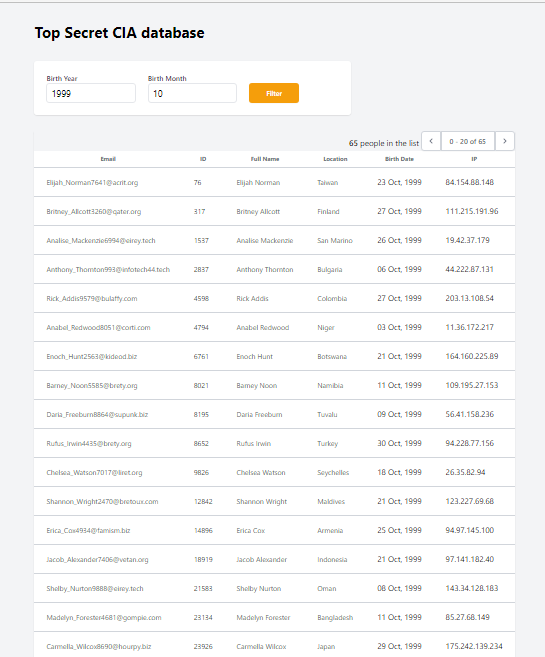
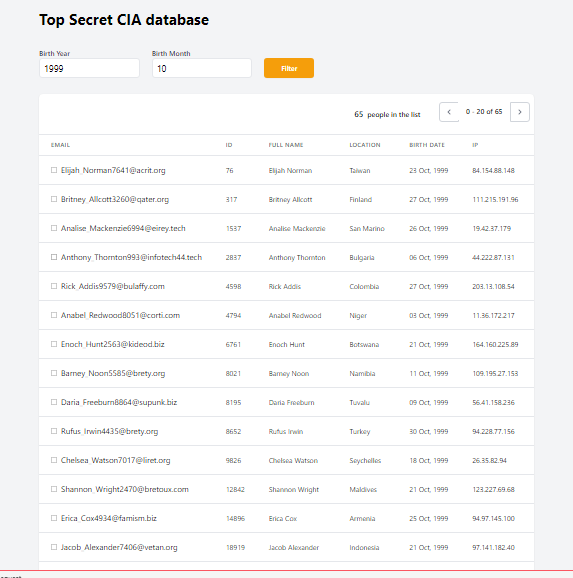
little styling

diff --git a/resources/views/users.blade.php b/resources/views/users.blade.php
@@ -11,15 +11,7 @@
 
         <!-- Styles -->
         <link href="https://unpkg.com/tailwindcss@^2/dist/tailwind.min.css" rel="stylesheet">
-        {{-- <style>
-            /*! normalize.css v8.0.1 | MIT License | github.com/necolas/normalize.css */html{line-height:1.15;-webkit-text-size-adjust:100%}body{margin:0}a{background-color:transparent}[hidden]{display:none}html{font-family:system-ui,-apple-system,BlinkMacSystemFont,Segoe UI,Roboto,Helvetica Neue,Arial,Noto Sans,sans-serif,Apple Color Emoji,Segoe UI Emoji,Segoe UI Symbol,Noto Color Emoji;line-height:1.5}*,:after,:before{box-sizing:border-box;border:0 solid #e2e8f0}a{color:inherit;text-decoration:inherit}svg,video{display:block;vertical-align:middle}video{max-width:100%;height:auto}.bg-white{--bg-opacity:1;background-color:#fff;background-color:rgba(255,255,255,var(--bg-opacity))}.bg-gray-100{--bg-opacity:1;background-color:#f7fafc;background-color:rgba(247,250,252,var(--bg-opacity))}.border-gray-200{--border-opacity:1;border-color:#edf2f7;border-color:rgba(237,242,247,var(--border-opacity))}.border-t{border-top-width:1px}.flex{display:flex}.grid{display:grid}.hidden{display:none}.items-center{align-items:center}.justify-center{justify-content:center}.font-semibold{font-weight:600}.h-5{height:1.25rem}.h-8{height:2rem}.h-16{height:4rem}.text-sm{font-size:.875rem}.text-lg{font-size:1.125rem}.leading-7{line-height:1.75rem}.mx-auto{margin-left:auto;margin-right:auto}.ml-1{margin-left:.25rem}.mt-2{margin-top:.5rem}.mr-2{margin-right:.5rem}.ml-2{margin-left:.5rem}.mt-4{margin-top:1rem}.ml-4{margin-left:1rem}.mt-8{margin-top:2rem}.ml-12{margin-left:3rem}.-mt-px{margin-top:-1px}.max-w-6xl{max-width:72rem}.min-h-screen{min-height:100vh}.overflow-hidden{overflow:hidden}.p-6{padding:1.5rem}.py-4{padding-top:1rem;padding-bottom:1rem}.px-6{padding-left:1.5rem;padding-right:1.5rem}.pt-8{padding-top:2rem}.fixed{position:fixed}.relative{position:relative}.top-0{top:0}.right-0{right:0}.shadow{box-shadow:0 1px 3px 0 rgba(0,0,0,.1),0 1px 2px 0 rgba(0,0,0,.06)}.text-center{text-align:center}.text-gray-200{--text-opacity:1;color:#edf2f7;color:rgba(237,242,247,var(--text-opacity))}.text-gray-300{--text-opacity:1;color:#e2e8f0;color:rgba(226,232,240,var(--text-opacity))}.text-gray-400{--text-opacity:1;color:#cbd5e0;color:rgba(203,213,224,var(--text-opacity))}.text-gray-500{--text-opacity:1;color:#a0aec0;color:rgba(160,174,192,var(--text-opacity))}.text-gray-600{--text-opacity:1;color:#718096;color:rgba(113,128,150,var(--text-opacity))}.text-gray-700{--text-opacity:1;color:#4a5568;color:rgba(74,85,104,var(--text-opacity))}.text-gray-900{--text-opacity:1;color:#1a202c;color:rgba(26,32,44,var(--text-opacity))}.underline{text-decoration:underline}.antialiased{-webkit-font-smoothing:antialiased;-moz-osx-font-smoothing:grayscale}.w-5{width:1.25rem}.w-8{width:2rem}.w-auto{width:auto}.grid-cols-1{grid-template-columns:repeat(1,minmax(0,1fr))}@media (min-width:640px){.sm\:rounded-lg{border-radius:.5rem}.sm\:block{display:block}.sm\:items-center{align-items:center}.sm\:justify-start{justify-content:flex-start}.sm\:justify-between{justify-content:space-between}.sm\:h-20{height:5rem}.sm\:ml-0{margin-left:0}.sm\:px-6{padding-left:1.5rem;padding-right:1.5rem}.sm\:pt-0{padding-top:0}.sm\:text-left{text-align:left}.sm\:text-right{text-align:right}}@media (min-width:768px){.md\:border-t-0{border-top-width:0}.md\:border-l{border-left-width:1px}.md\:grid-cols-2{grid-template-columns:repeat(2,minmax(0,1fr))}}@media (min-width:1024px){.lg\:px-8{padding-left:2rem;padding-right:2rem}}@media (prefers-color-scheme:dark){.dark\:bg-gray-800{--bg-opacity:1;background-color:#2d3748;background-color:rgba(45,55,72,var(--bg-opacity))}.dark\:bg-gray-900{--bg-opacity:1;background-color:#1a202c;background-color:rgba(26,32,44,var(--bg-opacity))}.dark\:border-gray-700{--border-opacity:1;border-color:#4a5568;border-color:rgba(74,85,104,var(--border-opacity))}.dark\:text-white{--text-opacity:1;color:#fff;color:rgba(255,255,255,var(--text-opacity))}.dark\:text-gray-400{--text-opacity:1;color:#cbd5e0;color:rgba(203,213,224,var(--text-opacity))}.dark\:text-gray-500{--tw-text-opacity:1;color:#6b7280;color:rgba(107,114,128,var(--tw-text-opacity))}}
-        </style> --}}
 
-        {{-- <style>
-            body {
-                font-family: 'Nunito', sans-serif;
-            }
-        </style> --}}
     </head>
     <body class="bg-gray-100 ">
 
@@ -33,8 +25,8 @@
                         <div class="md:grid md:grid-cols-3 md:gap-6">
                             <div class="mt-5 md:mt-0 md:col-span-2">
                                 <form action="">
-                                    <div class="shadow overflow-hidden sm:rounded-md">
-                                        <div class="px-4 py-5 bg-white sm:p-6">
+                                    <div class="overflow-hidden pb-2">
+
                                             <div class="grid grid-cols-6 gap-6">
                                                 <div class="col-span-6 sm:col-span-3 lg:col-span-2">
                                                     <label for="first_name" class="block text-sm font-medium text-gray-700">Birth Year</label>
@@ -52,7 +44,7 @@
                                                     </button>
                                                 </div>
                                             </div>
-                                        </div>
+
                                     </div>
                                 </form>
                             </div>
@@ -67,25 +59,25 @@
                                 @if ( count($users) > 0 )
                                     {{ $users->links() }}
 
-                                    <table class="min-w-full divide-y divide-gray-200 my-4">
+                                    <table class="min-w-full divide-y divide-gray-200 my-6 border-t border-b">
                                         <thead class="bg-white">
                                             <tr>
-                                                <th scope="col" class="px-6 py-3 text-left text-xs font-medium text-black-500 uppercase tracking-wider">
+                                                <th scope="col" class="px-6 py-3 text-left text-xs font-medium text-gray-500 uppercase tracking-wider">
                                                     Email
                                                 </th>
-                                                <th scope="col" class="px-6 py-3 text-left text-xs font-medium text-black-500 uppercase tracking-wider">
+                                                <th scope="col" class="px-6 py-3 text-left text-xs font-medium text-gray-500 uppercase tracking-wider">
                                                     ID
                                                 </th>
-                                                <th scope="col" class="px-6 py-3 text-left text-xs font-medium text-black-500 uppercase tracking-wider">
+                                                <th scope="col" class="px-6 py-3 text-left text-xs font-medium text-gray-500 uppercase tracking-wider">
                                                     Full Name
                                                 </th>
-                                                <th scope="col" class="px-6 py-3 text-left text-xs font-medium text-black-500 uppercase tracking-wider">
+                                                <th scope="col" class="px-6 py-3 text-left text-xs font-medium text-gray-500 uppercase tracking-wider">
                                                     Location
                                                 </th>
-                                                <th scope="col" class="px-6 py-3 text-left text-xs font-medium text-black-500 uppercase tracking-wider">
+                                                <th scope="col" class="px-6 py-3 text-left text-xs font-medium text-gray-500 uppercase tracking-wider">
                                                     Birth Date
                                                 </th>
-                                                <th scope="col" class="px-6 py-3 text-left text-xs font-medium text-black-500 uppercase tracking-wider">
+                                                <th scope="col" class="px-6 py-3 text-left text-xs font-medium text-gray-500 uppercase tracking-wider">
                                                     IP
                                                 </th>
                                             </tr>
@@ -113,7 +105,7 @@
                                                 <td class="px-6 py-4 whitespace-nowrap">
                                                     <div class="text-sm text-gray-900">{{ date('d M, Y', strtotime($user->dob)) }}</div>
                                                 </td>
-                                                <td class="px-6 py-4 whitespace-nowrap text-sm text-gray-500">
+                                                <td class="px-6 py-4 whitespace-nowrap text-sm">
                                                     {{$user->ip}}
                                                 </td>
                                             </tr>
